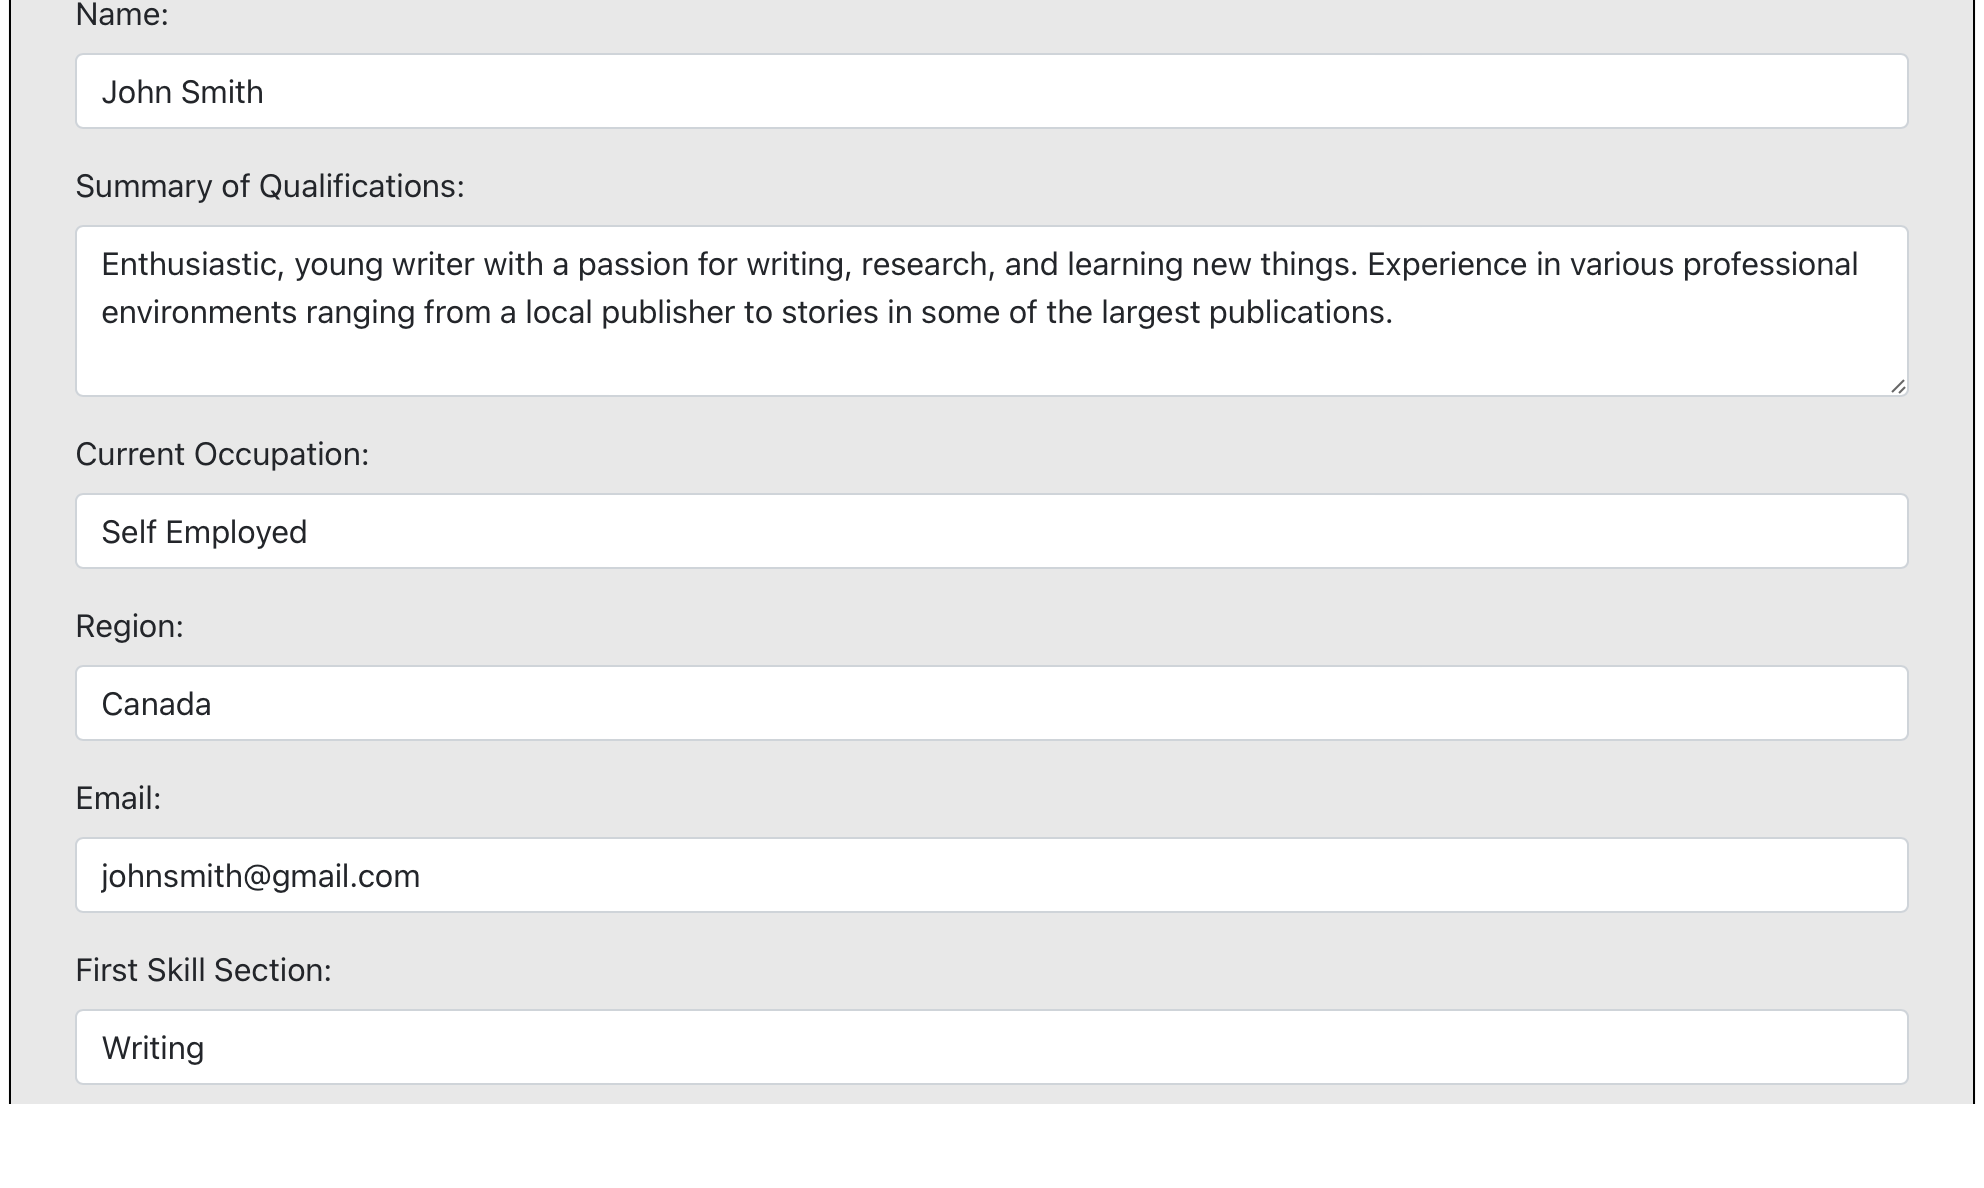
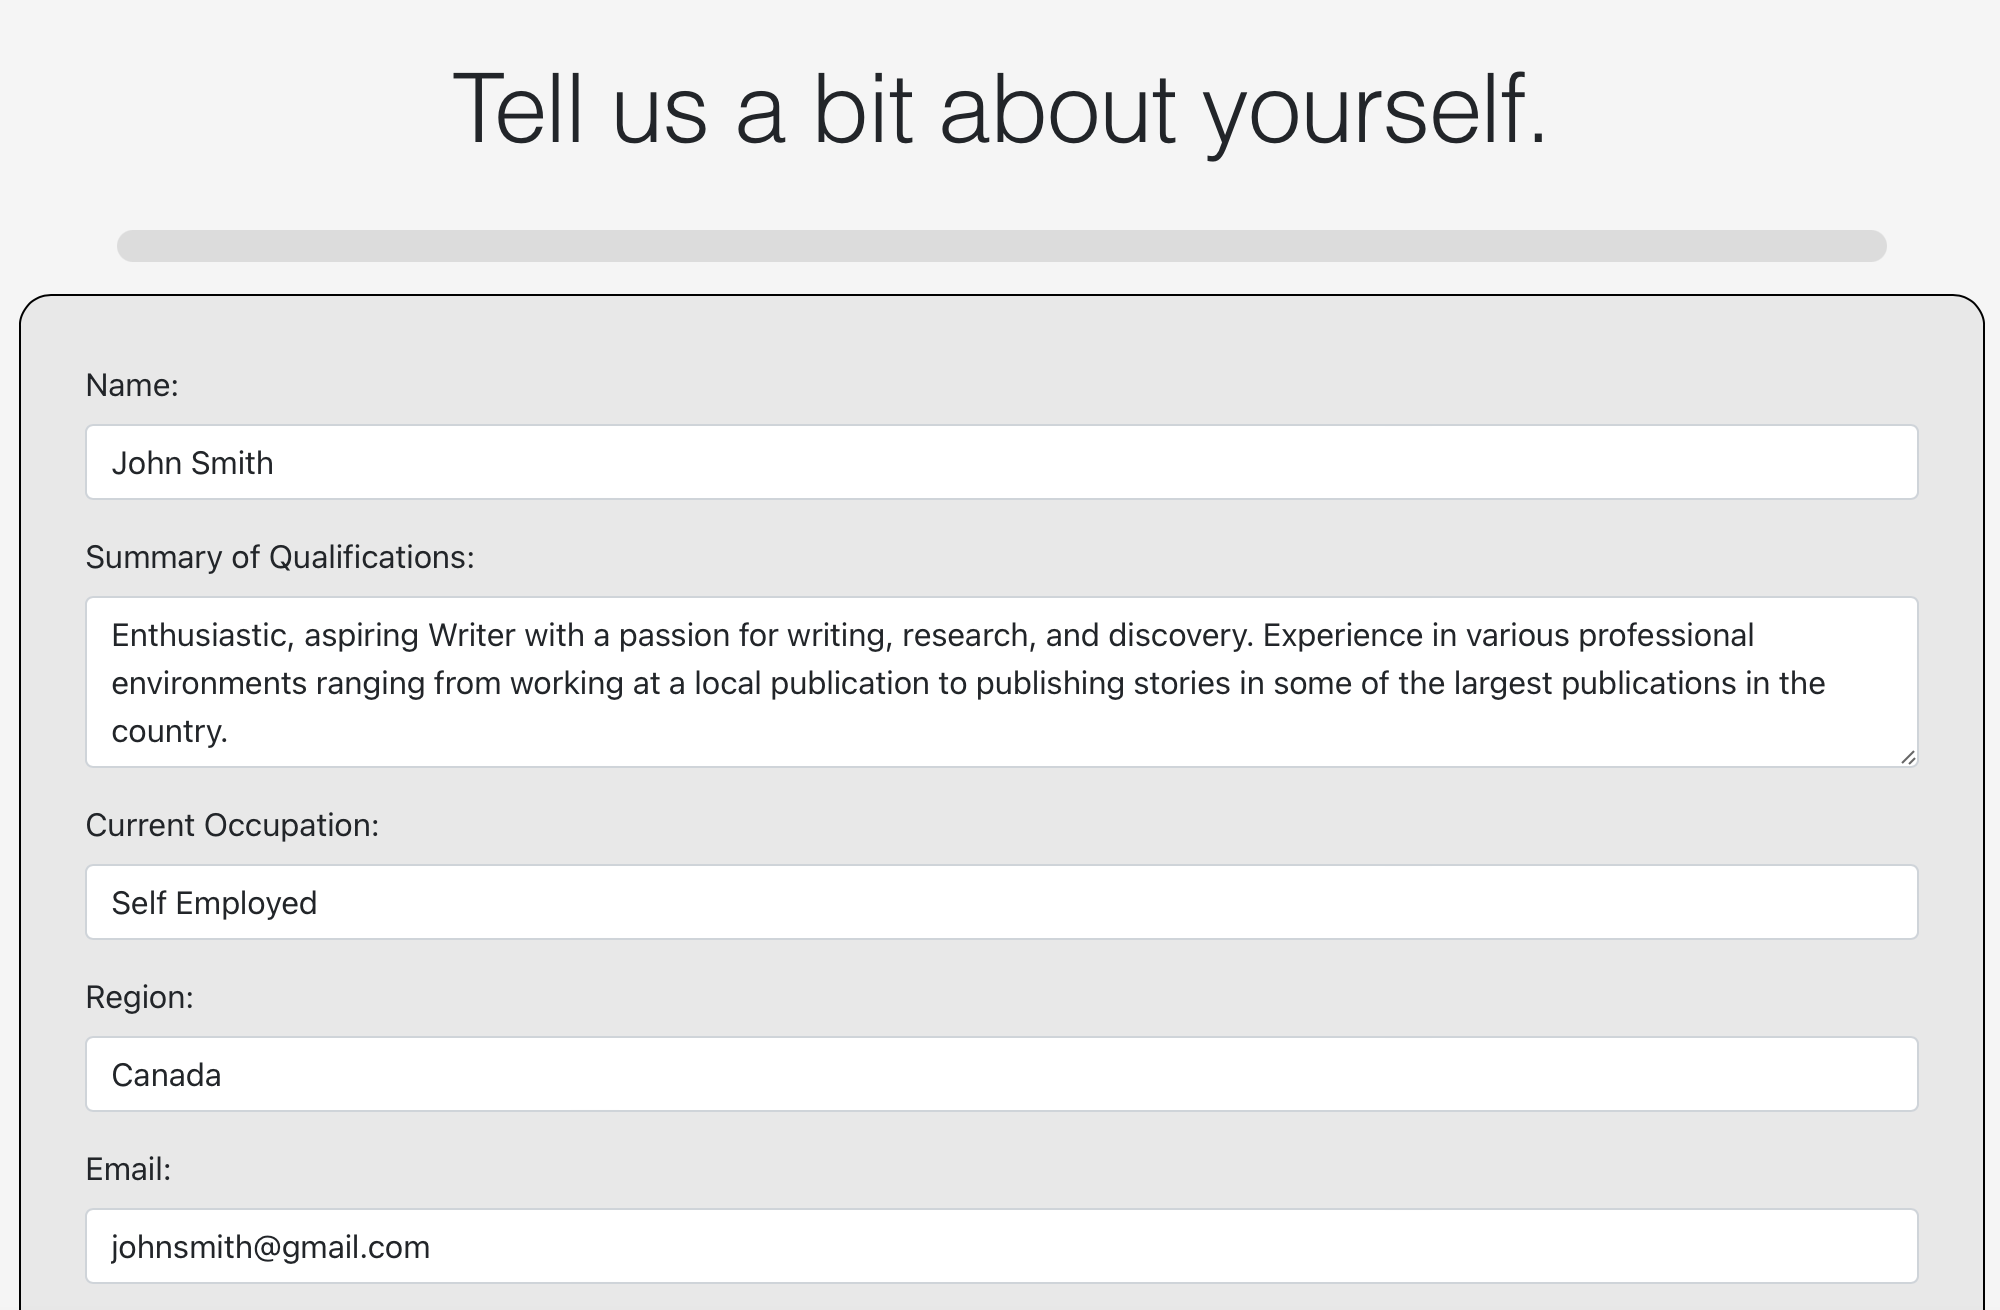
Made UI changes.
Made UI changes to the home page and the how it works section of the site.

diff --git a/website/resume-maker/src/pages/Home.js b/website/resume-maker/src/pages/Home.js
@@ -7,6 +7,7 @@ import { Paper } from "@mui/material";
 import { Document, Page, pdfjs } from "react-pdf";
 import TemplateOne from "../assets/templates/TemplateOne.pdf";
 import Form from "../assets/other/ResumeGeneratorForm.png";
+import Select from "../assets/other/SelectTemplate.png";
 import CompletionBar from "../components/CompletionBar";
 import { Parallax } from "react-scroll-parallax";
 
@@ -65,12 +66,25 @@ class Home extends Component {
                   fontSize={"1rem"}
                   variant="body"
                   position="relative"
+                  marginY={"1rem"}
+
                 >
                   Fill out our form. This gives the generator your
                   qualifications allowing it to create a personalized resume for
                   you.
                 </Typography>
                 <img src={Form} className="center-main-image"></img>
+                <Typography
+                  fontSize={"1rem"}
+                  variant="body"
+                  position="relative"
+                  marginY={"1rem"}
+                >
+                  Select a template. This tells us what you want your custom
+                  resume to look like. From here, we can fill our templates in
+                  with the qualifications <b>you</b> gave us.
+                </Typography>
+                <img src={Select} className="center-main-image"></img>
               </div>
             </div>
           </div>

diff --git a/website/resume-maker/src/pages/Generateresume.js b/website/resume-maker/src/pages/Generateresume.js
@@ -98,27 +98,31 @@ class Generateresume extends Component {
   }
 
   render() {
-    const qualificationsDone = true;
+    const qualificationsDone = this.state.qualificationsDone;
     let message = "Tell us a bit about yourself.";
     let progress = 0;
-    if (qualificationsDone){
-      progress =50;
-      message = "Select a template."
+    if (qualificationsDone) {
+      progress = 50;
+      message = "Select a template.";
     }
 
     return (
       <>
         <Header />
-        <div className="resume-form">
-          <Typography
-            fontSize={"3rem"}
-            variant="h1"
-            align="center"
-            marginY="2rem"
-          >
+
+        <Typography
+          fontSize={"3rem"}
+          variant="h1"
+          align="center"
+          marginY="2rem"
+        >
           {message}
-          </Typography>
-          <CompletionBar progress={progress} />
+        </Typography>
+        <div className="resume-form" style={{height: "auto"}}>
+
+        <CompletionBar progress={progress} />
+        </div>
+        <div className="resume-form">
           {qualificationsDone ? (
             <Templates templateSelect={(id) => this.selectTemplate(id)} />
           ) : (
